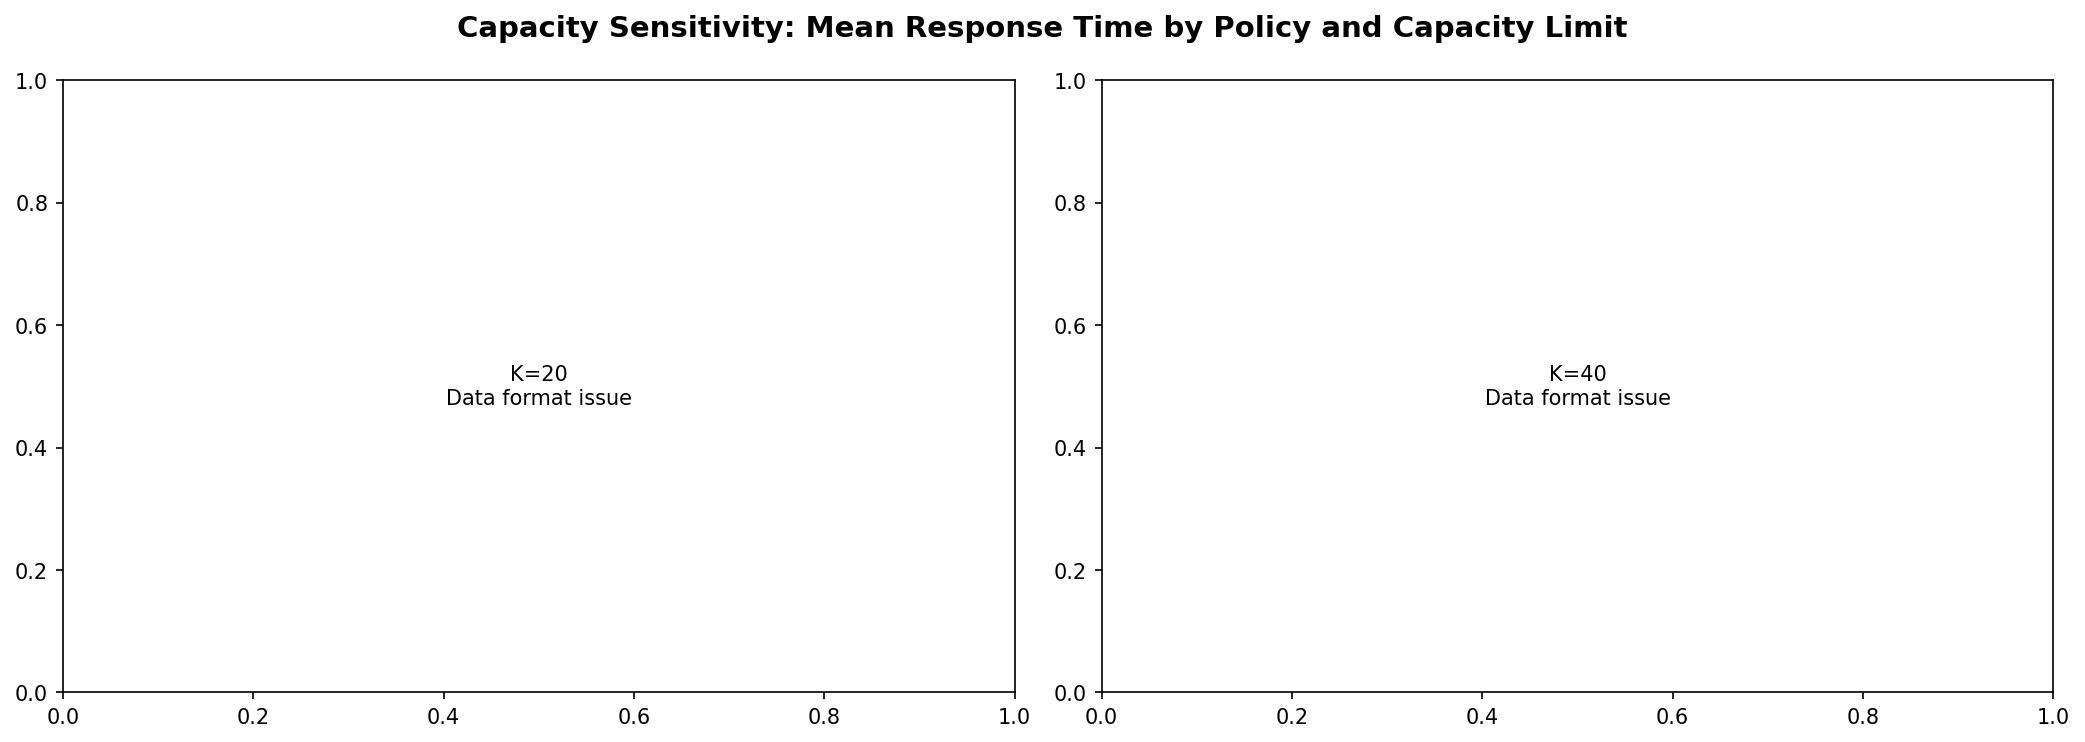
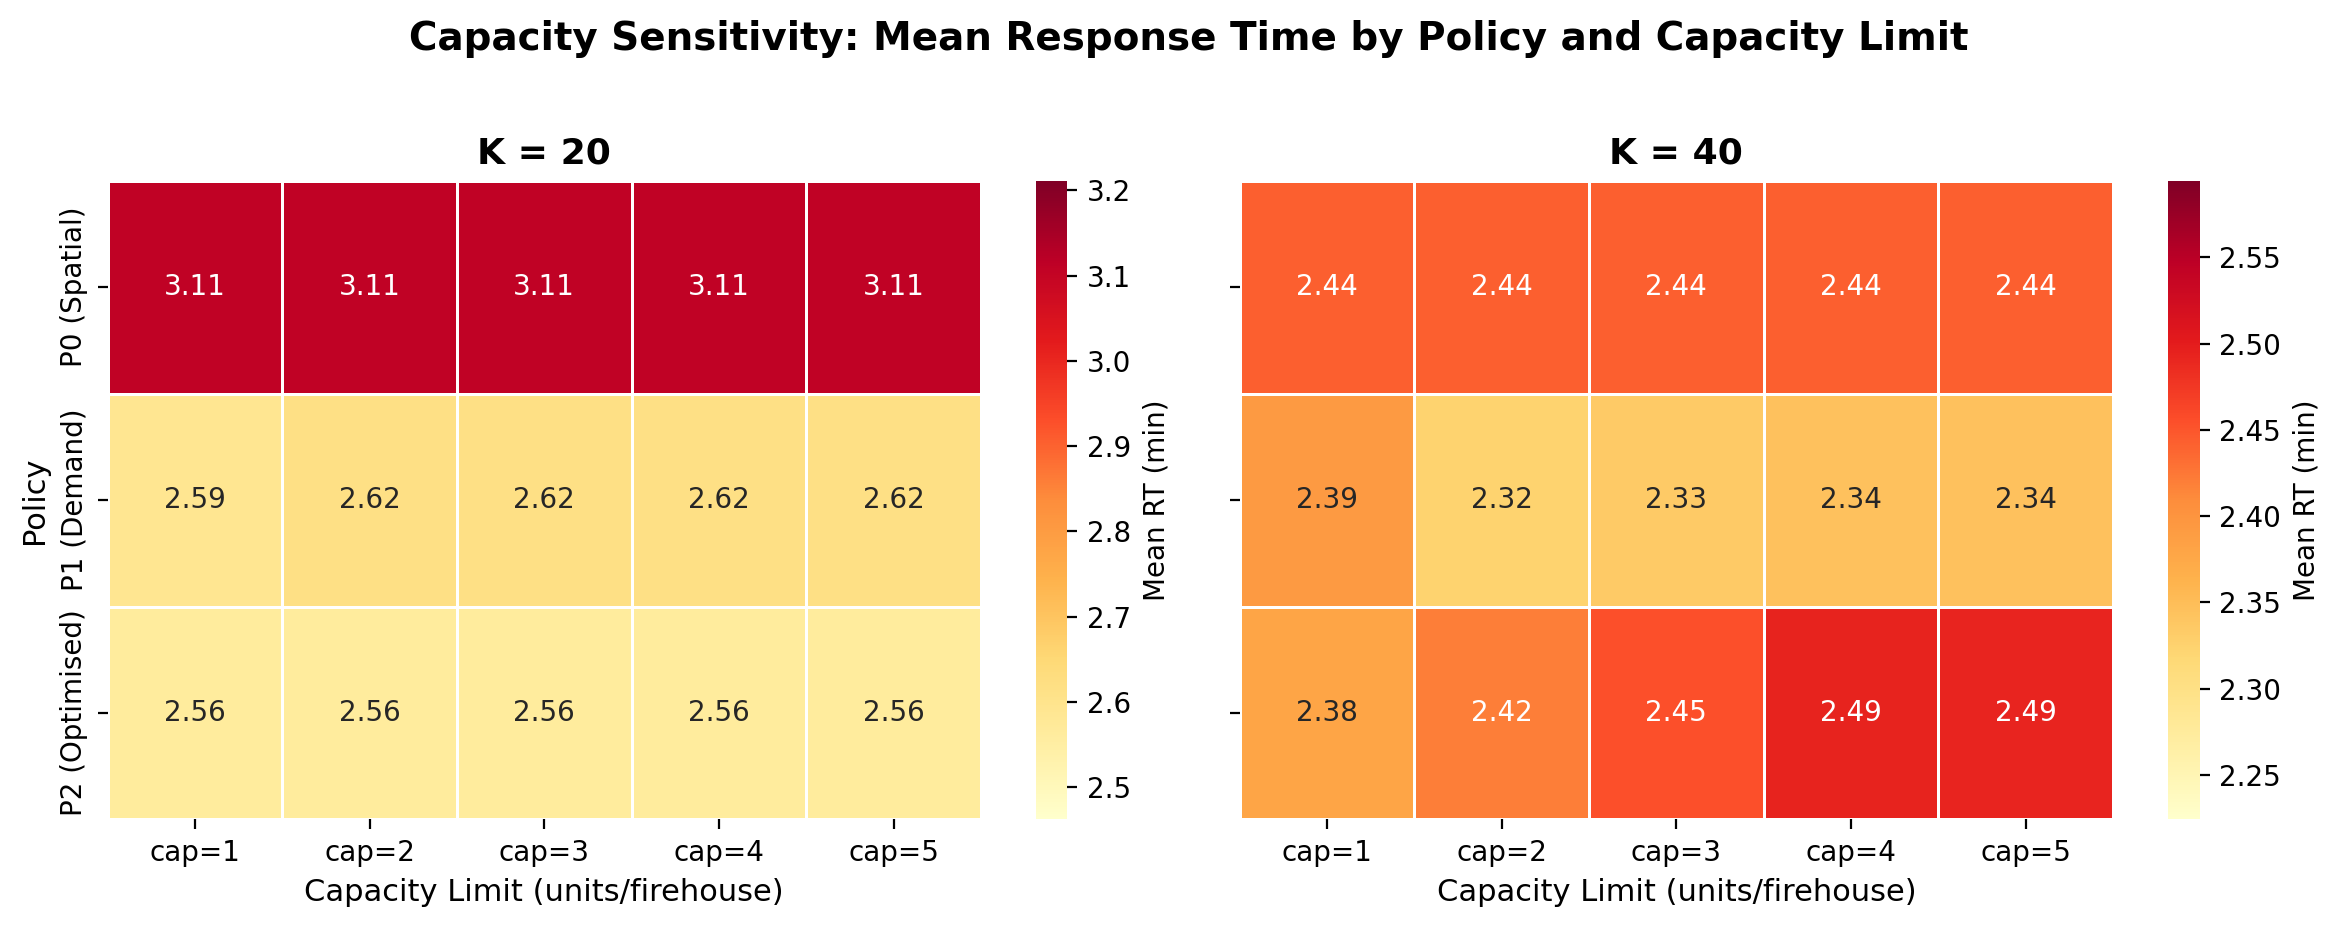
fix: regenerate capacity sensitivity heatmap with actual data
The previous heatmap showed blank plots with 'Data format issue' text
for both K=20 and K=40 panels. This was caused by the original
generation code failing to properly load/pivot the simulation results.

Added scripts/generate_capacity_sensitivity_heatmap.py which:
- Loads simulation results from results/capacity_comparison/
- Pivots data into policy × capacity format for seaborn heatmap
- Generates annotated heatmaps for K=20 and K=40 side by side
- Shows mean response time values in each cell with YlOrRd colormap

The heatmap now correctly shows:
- K=20: capacity is non-binding (nearly identical RT across cap=1-5)
- K=40: modest capacity effects visible (< 0.15 min differences)

diff --git a/scripts/generate_capacity_sensitivity_heatmap.py b/scripts/generate_capacity_sensitivity_heatmap.py
@@ -1,0 +1,148 @@
+#!/usr/bin/env python3
+"""
+Generate capacity sensitivity heatmap for the technical report.
+
+Creates a side-by-side heatmap showing mean response time by policy
+and per-firehouse capacity limit at K=20 and K=40.
+
+Output: results/figures/capacity_sensitivity_heatmap.png
+"""
+
+import pandas as pd
+import numpy as np
+import matplotlib.pyplot as plt
+import seaborn as sns
+from pathlib import Path
+
+# Project root
+PROJECT_ROOT = Path(__file__).resolve().parent.parent
+RESULTS_DIR = PROJECT_ROOT / "results" / "capacity_comparison"
+FIGURES_DIR = PROJECT_ROOT / "results" / "figures"
+FIGURES_DIR.mkdir(parents=True, exist_ok=True)
+
+# Policy display names
+POLICY_LABELS = {
+    "P0_spatial": "P0 (Spatial)",
+    "P1_demand": "P1 (Demand)",
+    "P2_optimised": "P2 (Optimised)",
+}
+
+
+def load_simulation_data():
+    """Load and combine simulation results from all K files."""
+    frames = []
+
+    # Main file (K=20 and K=40)
+    main_file = RESULTS_DIR / "simulation_results.csv"
+    if main_file.exists():
+        df = pd.read_csv(main_file)
+        print(f"Loaded {len(df)} rows from simulation_results.csv")
+        print(f"  Columns: {list(df.columns)}")
+        print(f"  Policies: {df['policy'].unique()}")
+        print(f"  K values: {sorted(df['K'].unique())}")
+        print(f"  Capacity values: {sorted(df['capacity'].unique())}")
+        frames.append(df)
+
+    # K=30 file
+    k30_file = RESULTS_DIR / "simulation_results_K30.csv"
+    if k30_file.exists():
+        df30 = pd.read_csv(k30_file)
+        print(f"Loaded {len(df30)} rows from simulation_results_K30.csv")
+        frames.append(df30)
+
+    if not frames:
+        raise FileNotFoundError("No simulation results found!")
+
+    combined = pd.concat(frames, ignore_index=True)
+    print(f"\nCombined: {len(combined)} rows")
+    print(f"  All K values: {sorted(combined['K'].unique())}")
+    print(f"  All capacity values: {sorted(combined['capacity'].unique())}")
+    return combined
+
+
+def create_heatmap(df, k_values=(20, 40)):
+    """Create side-by-side heatmaps for specified K values."""
+    fig, axes = plt.subplots(1, len(k_values), figsize=(6 * len(k_values), 4.5),
+                             sharey=True)
+    if len(k_values) == 1:
+        axes = [axes]
+
+    fig.suptitle("Capacity Sensitivity: Mean Response Time by Policy and Capacity Limit",
+                 fontsize=14, fontweight="bold", y=1.02)
+
+    for ax, K in zip(axes, k_values):
+        subset = df[df["K"] == K].copy()
+        if subset.empty:
+            ax.text(0.5, 0.5, f"K={K}\nNo data available",
+                    ha="center", va="center", transform=ax.transAxes, fontsize=12)
+            ax.set_title(f"K = {K}")
+            continue
+
+        # Map policy names to display labels
+        subset["Policy"] = subset["policy"].map(POLICY_LABELS)
+        subset = subset.dropna(subset=["Policy"])
+
+        # Pivot to get policies (rows) × capacity (columns)
+        pivot = subset.pivot_table(
+            index="Policy",
+            columns="capacity",
+            values="response_time_mean",
+            aggfunc="mean"
+        )
+
+        # Sort policies in order P0, P1, P2
+        policy_order = [v for v in POLICY_LABELS.values() if v in pivot.index]
+        pivot = pivot.reindex(policy_order)
+
+        # Sort columns numerically
+        pivot = pivot[sorted(pivot.columns)]
+
+        print(f"\nHeatmap data for K={K}:")
+        print(pivot.round(3))
+
+        # Plot heatmap
+        sns.heatmap(
+            pivot,
+            annot=True,
+            fmt=".2f",
+            cmap="YlOrRd",
+            ax=ax,
+            cbar_kws={"label": "Mean RT (min)"},
+            linewidths=0.5,
+            linecolor="white",
+            vmin=pivot.values.min() - 0.1,
+            vmax=pivot.values.max() + 0.1,
+        )
+
+        ax.set_title(f"K = {K}", fontsize=13, fontweight="bold")
+        ax.set_xlabel("Capacity Limit (units/firehouse)", fontsize=11)
+        if ax == axes[0]:
+            ax.set_ylabel("Policy", fontsize=11)
+        else:
+            ax.set_ylabel("")
+
+        # Rename capacity columns for clarity
+        cap_labels = [f"cap={int(c)}" for c in sorted(pivot.columns)]
+        ax.set_xticklabels(cap_labels, rotation=0)
+
+    plt.tight_layout()
+
+    output_path = FIGURES_DIR / "capacity_sensitivity_heatmap.png"
+    fig.savefig(output_path, dpi=200, bbox_inches="tight", facecolor="white")
+    plt.close(fig)
+    print(f"\nSaved: {output_path}")
+    return output_path
+
+
+def main():
+    print("=" * 60)
+    print("Generating Capacity Sensitivity Heatmap")
+    print("=" * 60)
+
+    df = load_simulation_data()
+    output = create_heatmap(df, k_values=(20, 40))
+    print(f"\nDone! Output: {output}")
+
+
+if __name__ == "__main__":
+    main()
